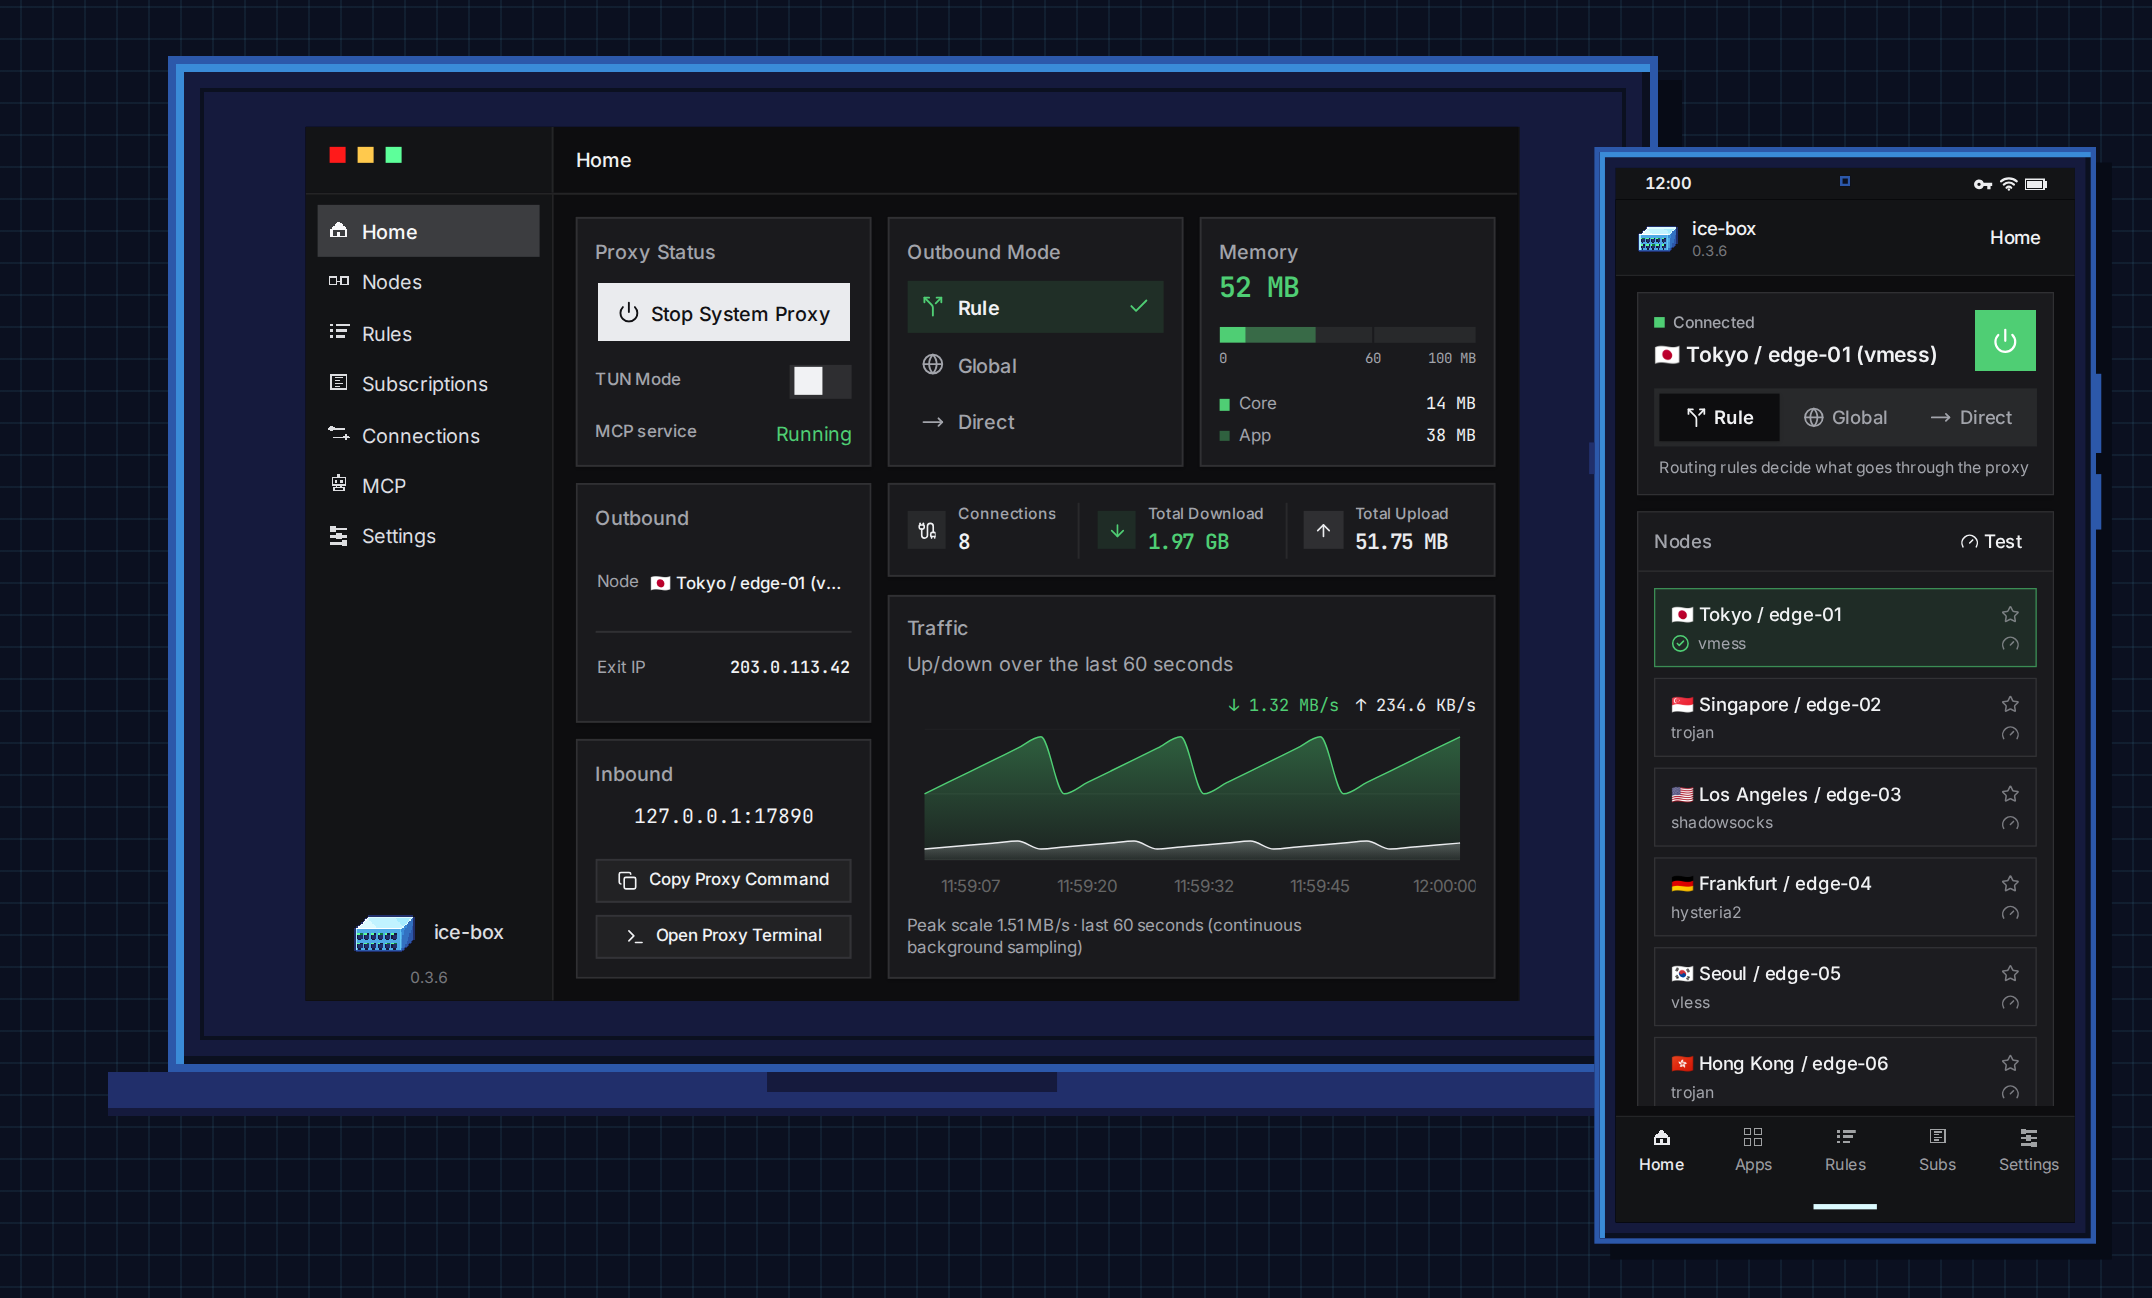
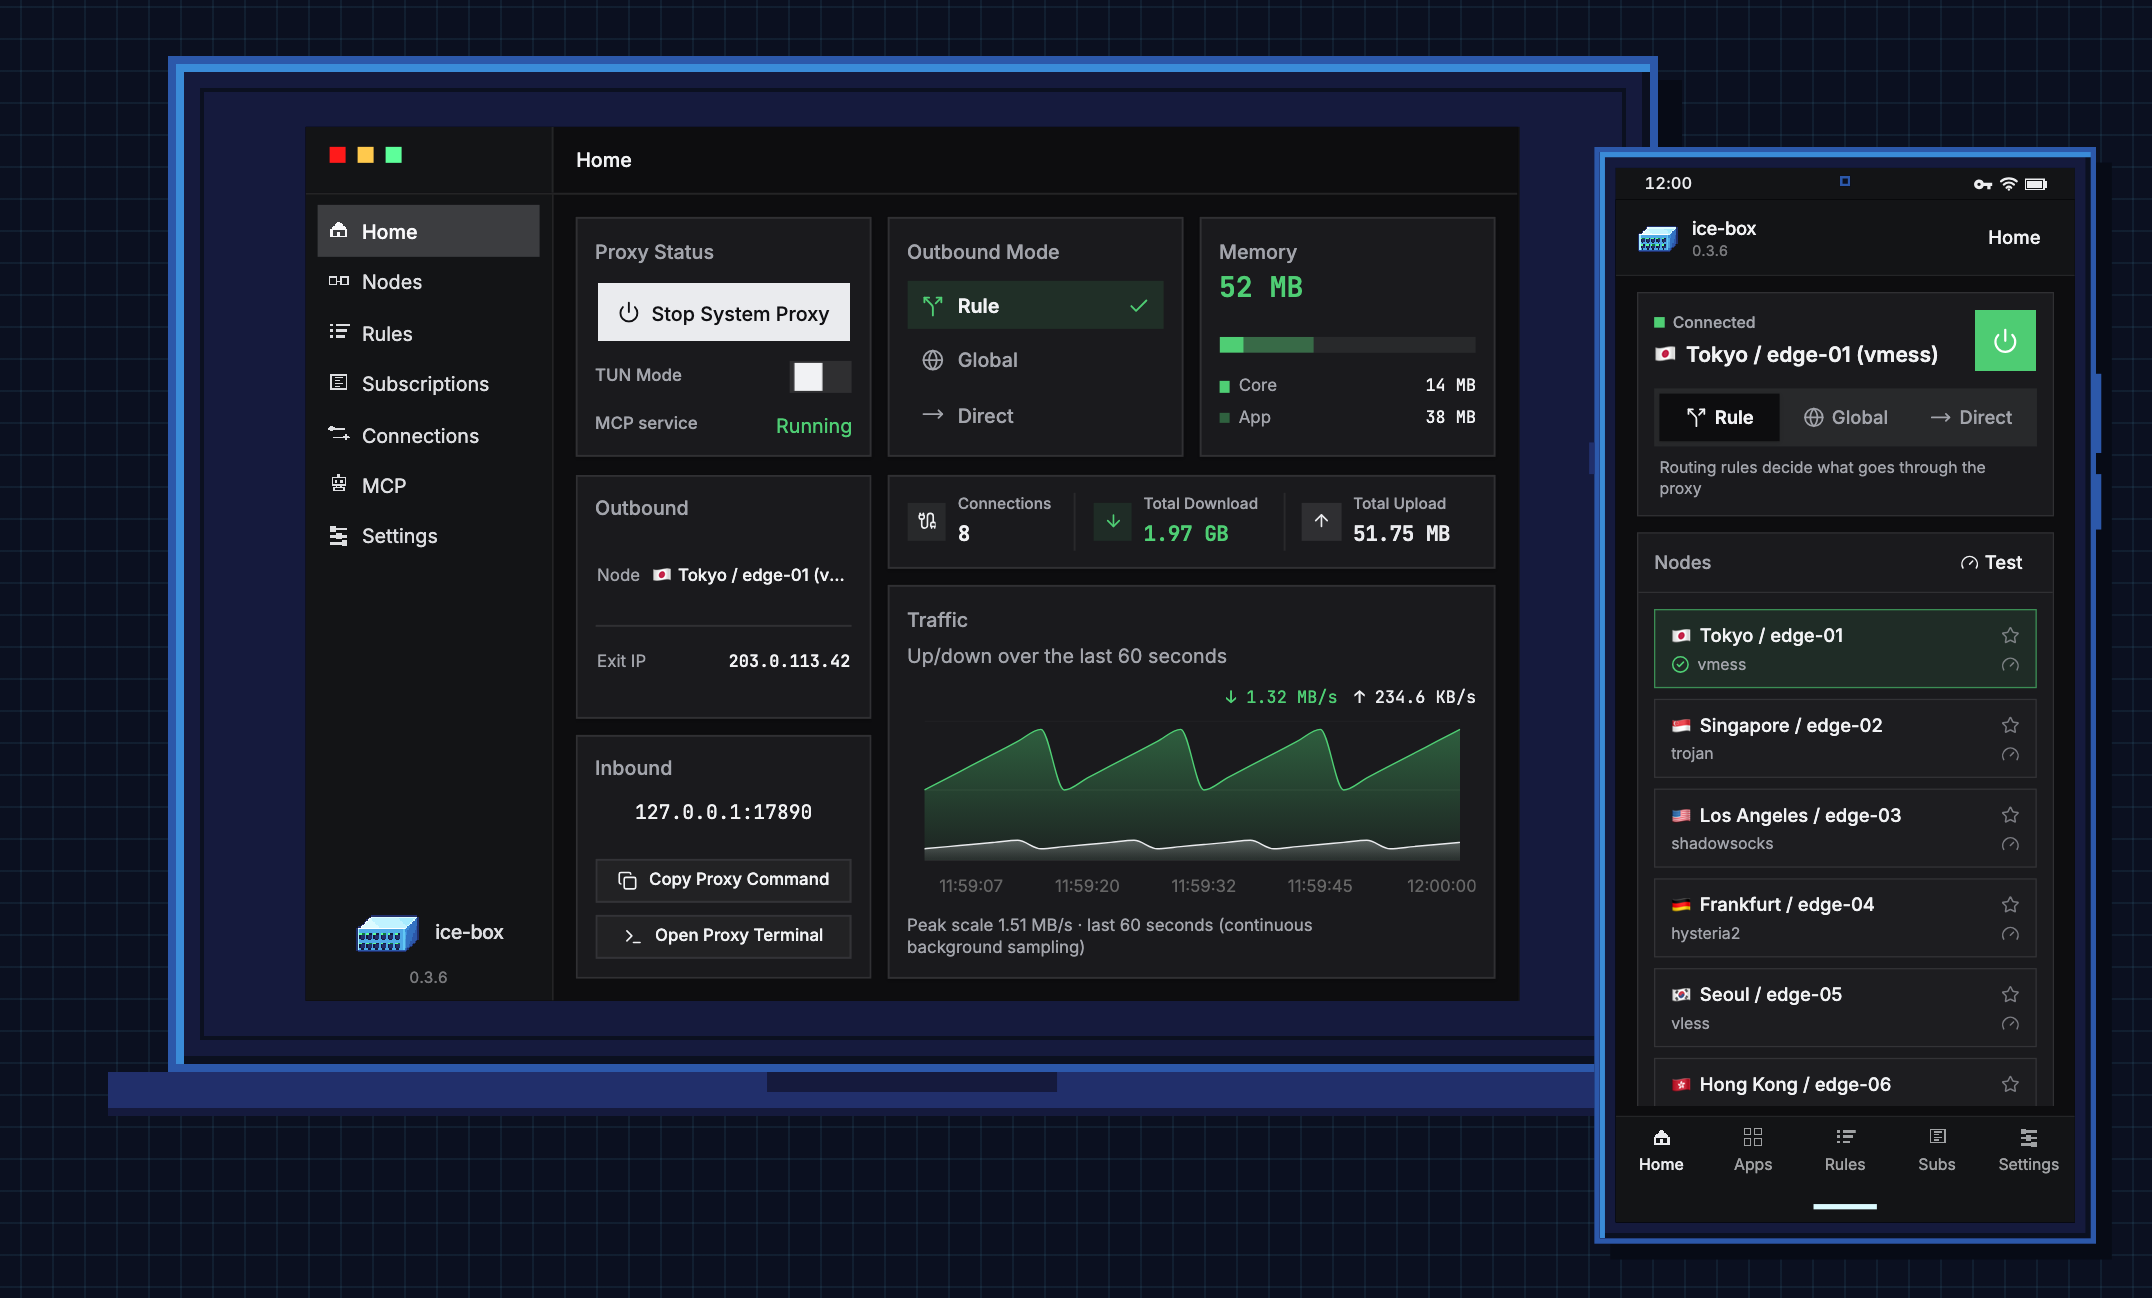
feat(home): fill the memory bar with the current total
The bar used to be a scale up to the red band, so a normal reading left a
gray stretch past the core and app segments. Core and app now share the
whole bar. The tick labels that marked that scale are gone. Colour bands
on the total are unchanged.

diff --git a/apps/desktop/src/components/MemoryCard.tsx b/apps/desktop/src/components/MemoryCard.tsx
@@ -1,24 +1,19 @@
 // SPDX-License-Identifier: GPL-3.0-or-later
 
 /**
- * Home memory card: the total footprint, a stacked bar split into core and
- * app, and a legend with each part's figure.
+ * Home memory card: the total footprint, a bar split into core and app, and
+ * a legend with each part's figure.
  *
- * The bar is drawn against a scale that ends where the red band starts (the
- * sample's `bad_mb`: 100 MB, or 120 MB on macOS), so how full it is shows how
- * close usage is to that band. Above it the scale grows in 50 MB steps past
- * the red mark, so that mark stays readable and the bar shows how far into the
- * red band usage has gone. The bar and the total take the colour of the band
- * the total falls in.
+ * The bar is the current total, not a scale with empty room past it. Core and
+ * app each take their share of that total, so the two segments fill the bar.
+ * Both segments, and the total, take the colour of the band the total falls in.
  */
 
 import type { MemoryUsage } from "@/api/contracts";
 import { Card, CardContent, CardHeader, CardTitle } from "@/components/ui/card";
 import { t } from "@/lib/i18n";
 import {
-  displayMemoryMb,
   formatMemory,
-  DEFAULT_MEMORY_BANDS,
   formatMemoryPart,
   memoryLabel,
   memoryMb,
@@ -26,23 +21,6 @@ import {
 } from "@/lib/memory";
 import { TONE_BG, TONE_TEXT, type Tone } from "@/lib/tone";
 import { cn } from "@/lib/utils";
-
-/** Past the red band's start the scale grows in these steps, counted from
- * that mark: the end label is always at least one step away from the red
- * mark's label, whatever the bands are. */
-const SCALE_STEP_MB = 50;
-
-/** An inner label closer than this share of the bar to either end is dropped
- * (its gap marker stays), so it never runs into the end labels. */
-const MIN_LABEL_GAP = 0.12;
-
-/** Bar length in MB for a displayed total: the start of the red band
- * (`badMb`) until usage passes it. */
-function memoryScaleMb(totalMb: number, badMb: number): number {
-  return totalMb <= badMb
-    ? badMb
-    : badMb + Math.ceil((totalMb - badMb) / SCALE_STEP_MB) * SCALE_STEP_MB;
-}
 
 /** Core segment: the full band colour. */
 const TONE_CORE = TONE_BG;
@@ -53,6 +31,17 @@ const TONE_APP: Record<Tone, string> = {
   warn: "bg-warn/40",
   bad: "bg-destructive/40",
 };
+
+/** Percent of the bar, rounded to 0.01. The two parts share one total, so the
+ * app segment is whatever the core segment does not take. */
+function sharePct(partMb: number, totalMb: number): number {
+  if (totalMb <= 0) return 0;
+  return Math.round((partMb / totalMb) * 10000) / 100;
+}
+
+function widthOf(share: number): string {
+  return `${share}%`;
+}
 
 /** Hover text for the total: the breakdown, or why the core is missing. */
 function memoryTip(memory: MemoryUsage | undefined, coreRunning: boolean) {
@@ -82,19 +71,9 @@ export function MemoryCard({
   // Rounded per-part figures, the same ones the legend prints.
   const coreMb = memory?.core_bytes != null ? memoryMb(memory.core_bytes) : 0;
   const appMb = memory?.app_bytes != null ? memoryMb(memory.app_bytes) : 0;
-  const bands = memory?.bands ?? DEFAULT_MEMORY_BANDS;
-  const scale = memoryScaleMb(memory ? displayMemoryMb(memory) : 0, bands.bad_mb);
-  // Scale labels: the start, and where the bar turns yellow and red. Past the
-  // red mark the scale grows, and its end gets a label of its own.
-  const baseTicks = [0, bands.warn_mb, bands.bad_mb];
-  const ticks = scale > bands.bad_mb ? [...baseTicks, scale] : baseTicks;
-  const labels = ticks.filter(
-    (mb) =>
-      mb === 0 ||
-      mb === scale ||
-      (mb / scale >= MIN_LABEL_GAP && mb / scale <= 1 - MIN_LABEL_GAP),
-  );
-  const pct = (mb: number) => `${Math.round((mb / scale) * 10000) / 100}%`;
+  const totalMb = coreMb + appMb;
+  const coreShare = sharePct(coreMb, totalMb);
+  const appShare = totalMb <= 0 ? 0 : Math.round((100 - coreShare) * 100) / 100;
 
   const coreValue =
     memory?.core_bytes != null
@@ -122,63 +101,28 @@ export function MemoryCard({
         </span>
       </CardHeader>
       <CardContent className="flex flex-1 flex-col justify-center gap-4">
-        <div className="flex flex-col gap-1.5">
-          <div className="relative">
-            <div
-              role="img"
-              aria-label={tip ?? label}
-              className="flex h-3 w-full overflow-hidden rounded-full bg-muted"
-              data-testid="home-memory-bar"
-            >
-              <div
-                className={cn(
-                  "h-full transition-[width] duration-500",
-                  tone ? TONE_CORE[tone] : "bg-muted-foreground",
-                )}
-                style={{ width: pct(coreMb) }}
-                data-testid="home-memory-bar-core"
-              />
-              <div
-                className={cn(
-                  "h-full transition-[width] duration-500",
-                  tone ? TONE_APP[tone] : "bg-muted-foreground/40",
-                )}
-                style={{ width: pct(appMb) }}
-                data-testid="home-memory-bar-app"
-              />
-            </div>
-            {/* Band boundaries cut through the bar as thin gaps. */}
-            {ticks.filter((mb) => mb > 0 && mb < scale).map((mb) => (
-              <span
-                key={mb}
-                aria-hidden="true"
-                className="absolute inset-y-0 w-0.5 -translate-x-1/2 bg-card"
-                style={{ left: pct(mb) }}
-              />
-            ))}
-          </div>
+        <div
+          role="img"
+          aria-label={tip ?? label}
+          className="flex h-3 w-full overflow-hidden rounded-full bg-muted"
+          data-testid="home-memory-bar"
+        >
           <div
-            aria-hidden="true"
-            className="relative h-3.5 font-mono text-[10px] leading-none text-muted-foreground tabular-nums"
-          >
-            {labels.map((mb) => (
-              <span
-                key={mb}
-                className={cn(
-                  "absolute top-0 whitespace-nowrap",
-                  mb === 0
-                    ? ""
-                    : mb === scale
-                      ? "-translate-x-full"
-                      : "-translate-x-1/2",
-                )}
-                style={{ left: pct(mb) }}
-                data-testid={`home-memory-tick-${mb}`}
-              >
-                {mb === scale ? `${mb} MB` : mb}
-              </span>
-            ))}
-          </div>
+            className={cn(
+              "h-full transition-[width] duration-500",
+              tone ? TONE_CORE[tone] : "bg-muted-foreground",
+            )}
+            style={{ width: widthOf(coreShare) }}
+            data-testid="home-memory-bar-core"
+          />
+          <div
+            className={cn(
+              "h-full transition-[width] duration-500",
+              tone ? TONE_APP[tone] : "bg-muted-foreground/40",
+            )}
+            style={{ width: widthOf(appShare) }}
+            data-testid="home-memory-bar-app"
+          />
         </div>
         <div className="flex flex-col gap-1.5 text-xs">
           <LegendItem

diff --git a/apps/desktop/src/pages/Home.test.tsx b/apps/desktop/src/pages/Home.test.tsx
@@ -357,6 +357,7 @@ describe("Home", () => {
       expect(view.getByTestId("home-health-memory")).toHaveTextContent("52 MB");
     });
     const row = view.getByTestId("home-health-memory");
+    expect(row.className).toContain("text-xl");
     expect(row.className).toContain("text-ok");
     expect(row).toHaveAttribute(
       "title",
@@ -380,14 +381,16 @@ describe("Home", () => {
       expect(view.getByTestId("home-memory-core")).toHaveTextContent("14 MB");
     });
     expect(view.getByTestId("home-memory-app")).toHaveTextContent("38 MB");
-    // Drawn against the 100 MB scale.
-    expect(view.getByTestId("home-memory-bar-core")).toHaveStyle({ width: "14%" });
-    expect(view.getByTestId("home-memory-bar-app")).toHaveStyle({ width: "38%" });
+    // The bar is the 52 MB total: 14 of 52, then the rest. No empty scale.
+    expect(view.getByTestId("home-memory-bar-core")).toHaveStyle({ width: "26.92%" });
+    expect(view.getByTestId("home-memory-bar-app")).toHaveStyle({ width: "73.08%" });
     expect(view.getByTestId("home-memory-bar")).toHaveAccessibleName(
       t("home.memory.tooltip", { core: "14 MB", app: "38 MB" }),
-    );  });
+    );
+    expect(view.queryByTestId("home-memory-pie")).toBeNull();
+  });
 
-  it("fills the memory bar once usage passes the scale", async () => {
+  it("fills the memory bar with the core and app split when usage is high", async () => {
     getStatus.mockResolvedValue(
       statusWithMemory({
         app_bytes: 150 * 1024 * 1024,
@@ -407,7 +410,7 @@ describe("Home", () => {
     expect(view.getByTestId("home-memory-bar-core").className).toContain("bg-destructive");
   });
 
-  it("grows the memory scale in 50 MB steps so labels stay apart", async () => {
+  it("draws the bar as the split of the total, not a fixed scale", async () => {
     getStatus.mockResolvedValue(
       statusWithMemory({
         app_bytes: 35 * 1024 * 1024,
@@ -422,15 +425,12 @@ describe("Home", () => {
     await waitFor(() => {
       expect(view.getByTestId("home-health-memory")).toHaveTextContent("105 MB");
     });
-    // 105 MB rounds the scale up to 150, not to 105 right next to the 100 tick.
-    expect(view.getByTestId("home-memory-bar-core")).toHaveStyle({ width: "46.67%" });
-    expect(view.getByTestId("home-memory-bar-app")).toHaveStyle({ width: "23.33%" });
-    expect(view.getByTestId("home-memory-tick-100")).toHaveStyle({ left: "66.67%" });
-    expect(view.getByTestId("home-memory-tick-150")).toHaveTextContent("150 MB");
-    expect(view.queryByTestId("home-memory-tick-105")).toBeNull();
+    // 70 of 105, then the rest. A 150 MB scale would have left the bar partly empty.
+    expect(view.getByTestId("home-memory-bar-core")).toHaveStyle({ width: "66.67%" });
+    expect(view.getByTestId("home-memory-bar-app")).toHaveStyle({ width: "33.33%" });
   });
 
-  it("draws the bands and scale the backend sends", async () => {
+  it("draws the bands the backend sends", async () => {
     // The macOS backend reports bands 20 MB above the baseline.
     getStatus.mockResolvedValue(
       statusWithMemory({
@@ -449,17 +449,11 @@ describe("Home", () => {
     });
     // 72 MB is yellow against the baseline bands and green against these.
     expect(view.getByTestId("home-memory-bar-core").className).toContain("bg-ok");
-    expect(view.getByTestId("home-memory-bar-core")).toHaveStyle({ width: "18.33%" });
-    expect(view.getByTestId("home-memory-bar-app")).toHaveStyle({ width: "41.67%" });
-    expect(view.getByTestId("home-memory-tick-80")).toHaveStyle({ left: "66.67%" });
-    expect(view.getByTestId("home-memory-tick-120")).toHaveTextContent("120 MB");
-    expect(view.queryByTestId("home-memory-tick-60")).toBeNull();
-    expect(view.queryByTestId("home-memory-tick-100")).toBeNull();
+    expect(view.getByTestId("home-memory-bar-core")).toHaveStyle({ width: "30.56%" });
+    expect(view.getByTestId("home-memory-bar-app")).toHaveStyle({ width: "69.44%" });
   });
 
-  it("grows the scale from the red mark so its label keeps clear of the end", async () => {
-    // 121 MB against a 120 MB red mark: a scale rounded to the next multiple
-    // of 50 would end at 150, only a fifth of the bar past the 120 label.
+  it("colours the full bar from the total even past the red mark", async () => {
     getStatus.mockResolvedValue(
       statusWithMemory({
         app_bytes: 91 * 1024 * 1024,
@@ -475,9 +469,8 @@ describe("Home", () => {
     await waitFor(() => {
       expect(view.getByTestId("home-health-memory")).toHaveTextContent("121 MB");
     });
-    expect(view.getByTestId("home-memory-tick-120")).toHaveStyle({ left: "70.59%" });
-    expect(view.getByTestId("home-memory-tick-170")).toHaveTextContent("170 MB");
-    expect(view.queryByTestId("home-memory-tick-150")).toBeNull();
+    expect(view.getByTestId("home-memory-bar-core")).toHaveStyle({ width: "24.79%" });
+    expect(view.getByTestId("home-memory-bar-app")).toHaveStyle({ width: "75.21%" });
     expect(view.getByTestId("home-memory-bar-core").className).toContain("bg-destructive");
   });
 

diff --git a/CHANGELOG.md b/CHANGELOG.md
@@ -11,6 +11,13 @@ The format is based on [Keep a Changelog](https://keepachangelog.com/en/1.1.0/).
   the landing IP. The country is the `loc` field from the same Cloudflare
   trace that supplies the IP. An unknown code is left off.
 
+### Changed
+
+- Home’s memory bar is the current total. Core and app fill it by their
+  share, so the bar no longer keeps an empty stretch of scale past the
+  reading. The tick labels under the bar are gone. The total still takes
+  the colour of its band.
+
 ### Fixed
 
 - A subscription outbound that would collide with a tag the app owns is
